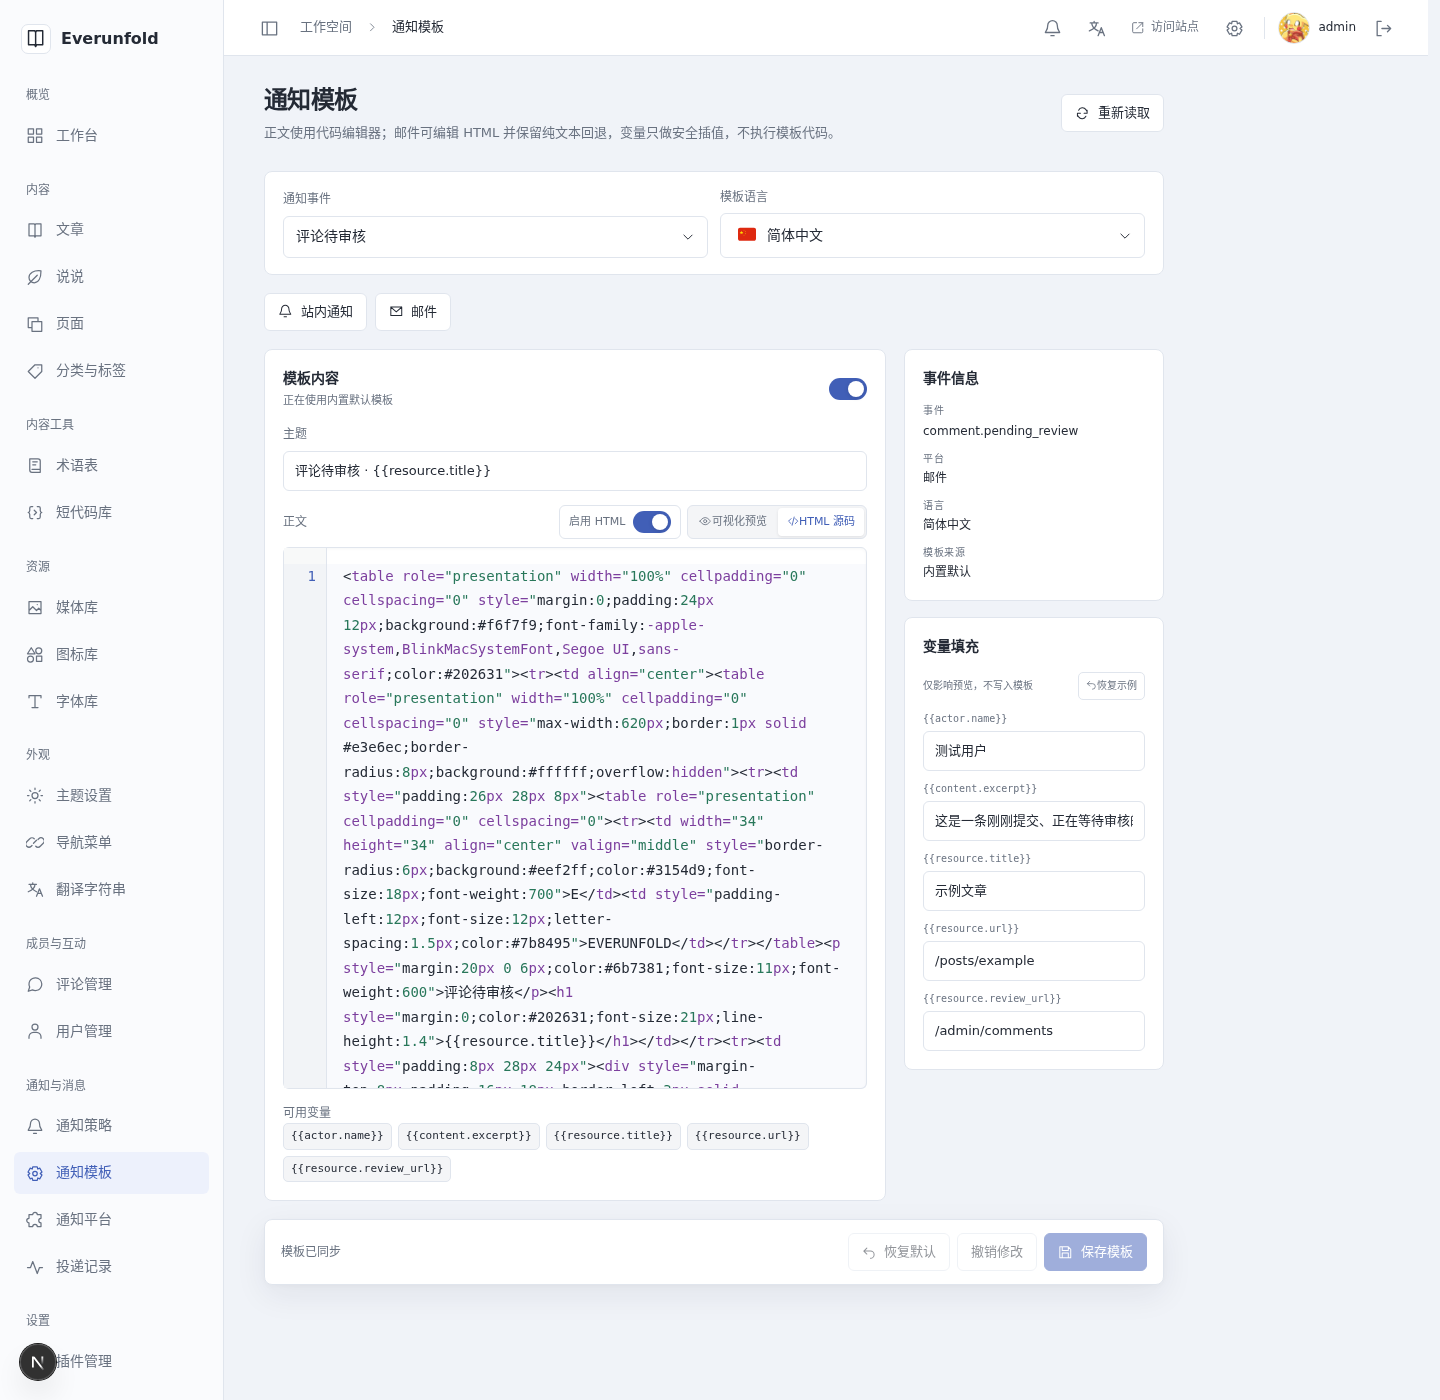
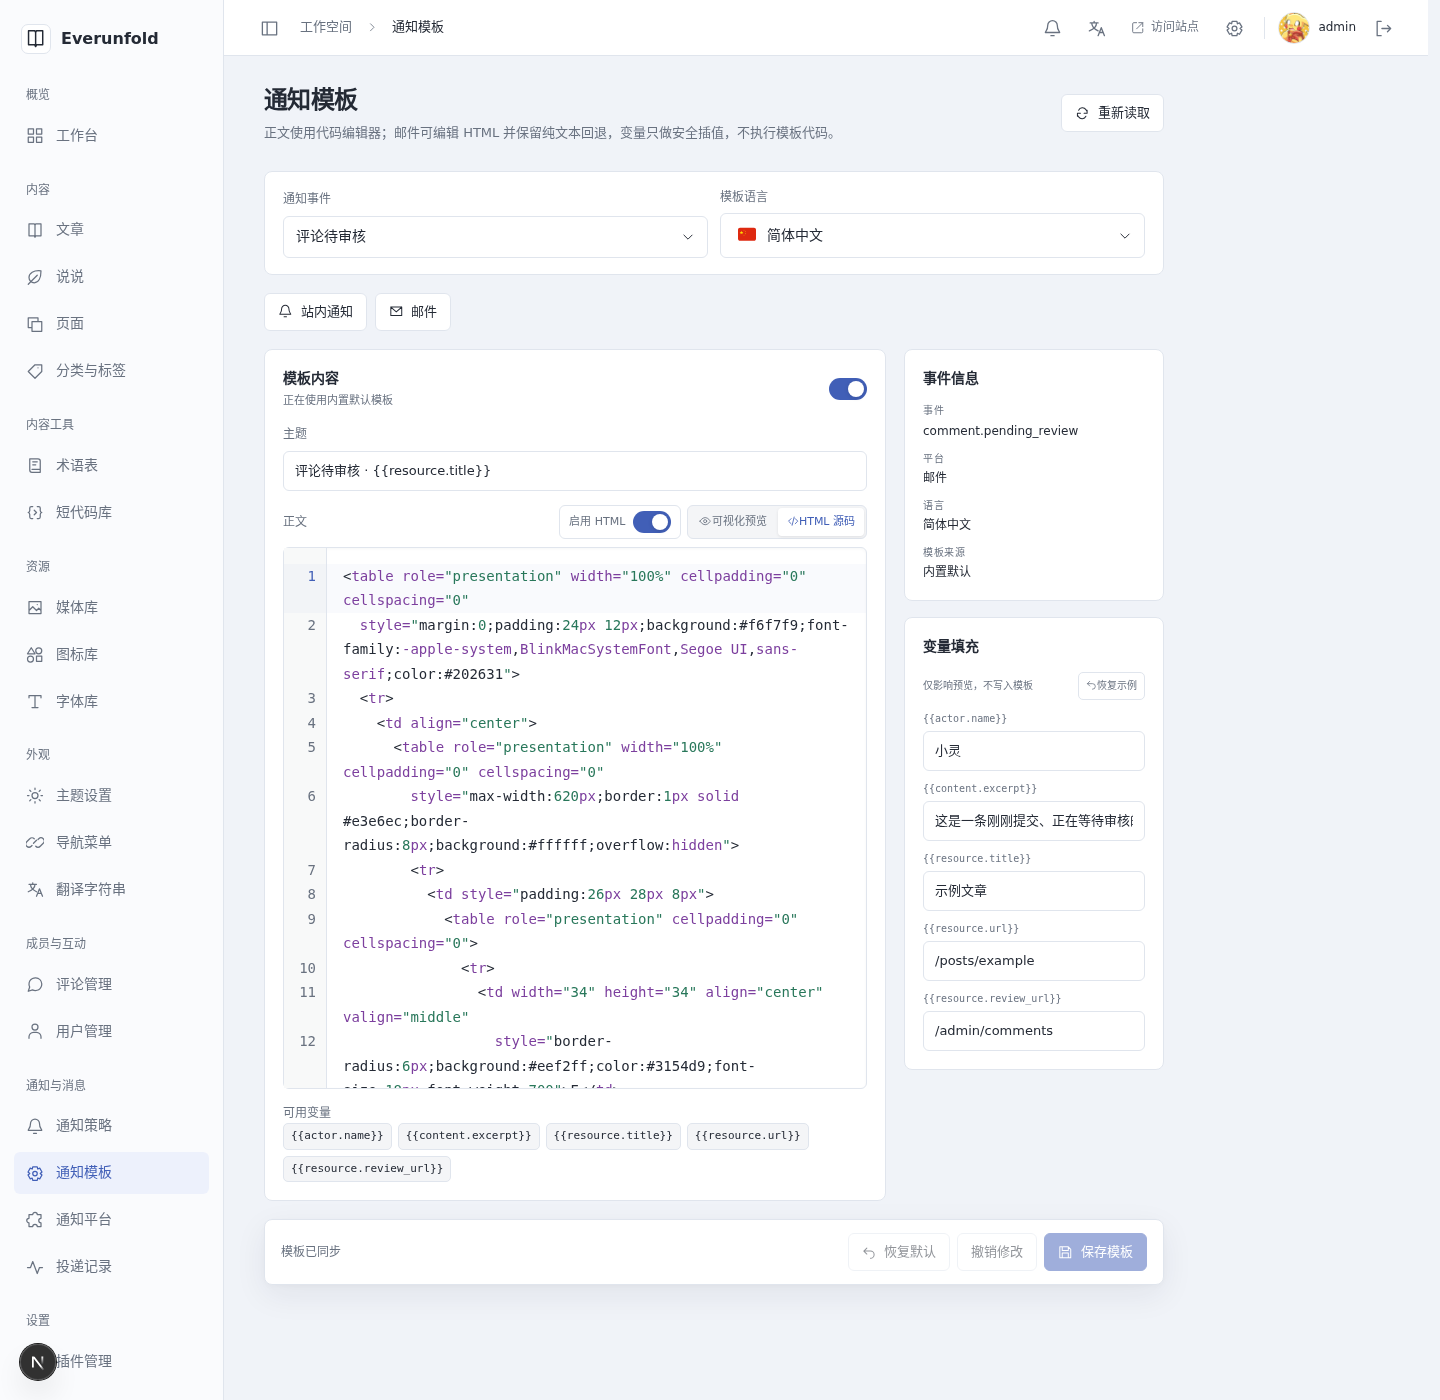
docs: record formatted default email html

Changed region(s): [[0.25, 0.43, 0.5625, 0.7679], [0.6562, 0.5221, 0.6875, 0.5529]]

diff --git a/docs/handoff/notification-html-template-verification.md b/docs/handoff/notification-html-template-verification.md
@@ -1,12 +1,12 @@
 # 通知模板代码编辑器与 HTML 邮件验收
 
-版本：notification-html-template-verification-5。日期：2026-11-11。后端HTML开关提交`a592e1c`、前端实现见STATUS。未向外部邮箱发送邮件。
+版本：notification-html-template-verification-6。日期：2026-11-11。后端HTML开关提交`a592e1c`、前端实现见STATUS。未向外部邮箱发送邮件。
 
 ## 已实现
 
 - 通知模板正文由普通多行文本框改为共享编辑器；纯文本和 HTML 源码使用`CodeEditor`。
 - 邮件平台使用独立“启用 HTML”开关；关闭时编辑纯文本，开启后可切换“可视化预览 / HTML源码”，关闭不会删除HTML内容，首次启用时从现有纯文本生成安全段落。
-- 默认邮件模板改为后台风格的简约图形卡片：中性背景、细边框、小图形标识、评论摘要和单一操作入口。
+- 默认邮件模板改为后台风格的简约图形卡片：中性背景、细边框、小图形标识、评论摘要和单一操作入口；默认HTML源码包含层级缩进和换行。
 - 可用变量插入当前代码编辑器光标位置；示例人物变量由“小林”改为“小灵”。
 - 变量填充独立为右侧组件，只更新预览值，不修改模板源码；编辑器始终保留 `{{actor.name}}` 等占位符。
 - “可视化预览”直接渲染当前HTML源码，与最终邮件共用同一份内容和清洗链路；下方不再维护重复“安全预览”。
@@ -20,6 +20,7 @@
 - 前端`npm run check`：370 passed；`npm run verify:admin`生产隔离矩阵通过。
 - 定向测试验证 HTML 注入值转义、脚本/事件属性清理、SMTP 多部分 MIME 和纯文本回退。
 - 1440px与390px实页检查：HTML源码编辑器1个、可视化预览iframe1个、重复“安全预览”数量为0；“小灵”可见、旧“小林”不可见，无水平溢出和`pageerror`。
+- 默认HTML编辑器识别到13个结构行，`table`/`tr`/`td`保持层级缩进，变量占位符在源码中保留。
 - HTML开关关闭后预览iframe数量为0、纯文本代码编辑器1个；再次开启后原HTML模板仍存在，内容未丢失。
 - 将变量 `actor.name` 填为“测试用户”后预览立即更新，切回源码仍为 `{{actor.name}}`，未写入“测试用户”，模板保持同步状态。
 - 保存链路使用浏览器请求夹具确认提交 `html`，未改开发环境中的真实通知模板。

diff --git a/docs/README.md b/docs/README.md
@@ -1,6 +1,6 @@
 # Everunfold 文档入口
 
-[通知模板代码编辑器与 HTML 邮件](development/notifications.md)、[ADR0117](decisions/0117-html-notification-templates.md)及[验收](handoff/notification-html-template-verification.md)：邮件通过独立“启用 HTML”开关控制发送，开启后提供可视化预览与源码双视图，关闭时保留内容并使用纯文本回退。编辑器始终保存变量占位符，变量填充独立影响预览。默认邮件模板采用后台一致的简约图形卡片。
+[通知模板代码编辑器与 HTML 邮件](development/notifications.md)、[ADR0117](decisions/0117-html-notification-templates.md)及[验收](handoff/notification-html-template-verification.md)：邮件通过独立“启用 HTML”开关控制发送，开启后提供可视化预览与源码双视图，关闭时保留内容并使用纯文本回退。编辑器始终保存变量占位符，变量填充独立影响预览。默认邮件模板采用后台一致的简约图形卡片，HTML源码按层级缩进。
 
 [多邮件发信配置](development/mail.md)、[ADR0116](decisions/0116-multiple-mail-sender-profiles.md)及[验收](handoff/multi-mail-profile-verification.md)：邮件配置并入“通知与消息 → 通知平台”，每站可维护最多20套 SMTP 发信身份；提醒规则可选择具体配置，未选择时使用默认配置。投递会快照配置身份和修订，停用、删除或配置变化不会静默换号；旧单配置自动兼容，原邮件设置入口保留隐藏跳转。
 

diff --git a/docs/development/notifications.md b/docs/development/notifications.md
@@ -1,6 +1,6 @@
 # 通知系统与通知模板
 
-版本：notifications-6，2026-11-11。架构决定见 [ADR0113](../decisions/0113-notification-events-platforms-and-templates.md)与[ADR0117](../decisions/0117-html-notification-templates.md)。
+版本：notifications-7，2026-11-11。架构决定见 [ADR0113](../decisions/0113-notification-events-platforms-and-templates.md)与[ADR0117](../decisions/0117-html-notification-templates.md)。
 
 ## 概念
 
@@ -19,7 +19,7 @@
 - 路由接收人支持指定用户、角色和权限。
 - 模板按事件、平台、语言保存；缺失平台变体回退到内置安全文案。
 - 模板正文使用共享编辑器。站内通知只编辑纯文本；邮件平台通过独立“启用 HTML”开关控制HTML发送，开启后可切换“可视化预览 / HTML源码”，关闭时保留HTML内容。
-- 默认邮件模板采用后台一致的简约卡片：中性背景、细分隔线、小图形标识和少量主题色，不依赖外链图片。
+- 默认邮件模板采用后台一致的简约卡片：中性背景、细分隔线、小图形标识和少量主题色，不依赖外链图片；HTML源码按层级缩进并逐行展开，便于直接维护。
 - 评论进入待审核状态时发布 `comment.pending_review`。
 - 站内通知写入 Inbox；邮件平台复用现有 SMTP 配置。
 - 投递记录区分 `pending`、`sending`、`sent`、`failed`、`unknown`、`suppressed`。

diff --git a/docs/handoff/STATUS.md b/docs/handoff/STATUS.md
@@ -13,6 +13,7 @@
 - 通知模板正文使用共享代码编辑器；HTML“可视化预览”直接渲染同一份源码，页面下方不再维护重复安全预览。变量插入源码光标，示例人物为“小灵”。
 - 变量填充独立为右侧组件：可临时填写或恢复示例值，只影响预览，不写入模板；编辑器始终保留 `{{actor.name}}` 等占位符。
 - 默认邮件模板改为后台风格的简约图形卡片：中性背景、细边框、小图形标识、评论摘要与单一操作入口；可视化修改会同步到HTML源码。
+- 默认HTML改为带层级缩进和换行的源码，打开邮件源码视图即可按结构阅读。
 - HTML 变量先转义，后端再过滤脚本、表单、iframe、SVG、事件属性与活动 URL；预览使用无脚本沙箱 iframe。邮件以`multipart/alternative`发送并保留纯文本回退，站内通知继续只使用纯文本。
 - `notifications-v1 1.3.0`固定到后端开关实现；迁移`0047_notification_html_toggle`已应用开发库。
 - 后端通知/邮件真实数据库定向通过，前端完整检查370项通过。1440px/390px实页无溢出、无`pageerror`；HTML关闭/开启后内容保留。
